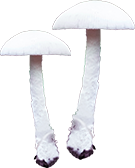
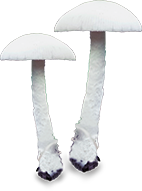
Update images

diff --git a/src/assets/styles/App.scss b/src/assets/styles/App.scss
@@ -84,7 +84,7 @@ html {
     height: 46%;
     margin: auto;
     left: -25%;
-    bottom: -20%;
+    bottom: -23%;
     @include medium {
       width: 120%;
       height: 50%;
@@ -98,7 +98,7 @@ html {
     width: 80px;
     height: 100px;
     left: 15%;
-    bottom: 7%;
+    bottom: 4%;
     @include medium {
       width: 120px;
       height: 150px;
@@ -112,7 +112,7 @@ html {
     width: 8%;
     height: 15%;
     right: 10%;
-    bottom: 6%;
+    bottom: 2%;
     @include medium {
       bottom: 10%;
     }
